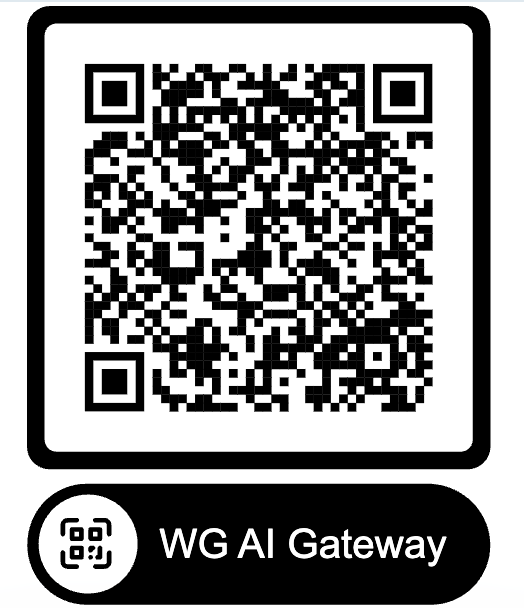
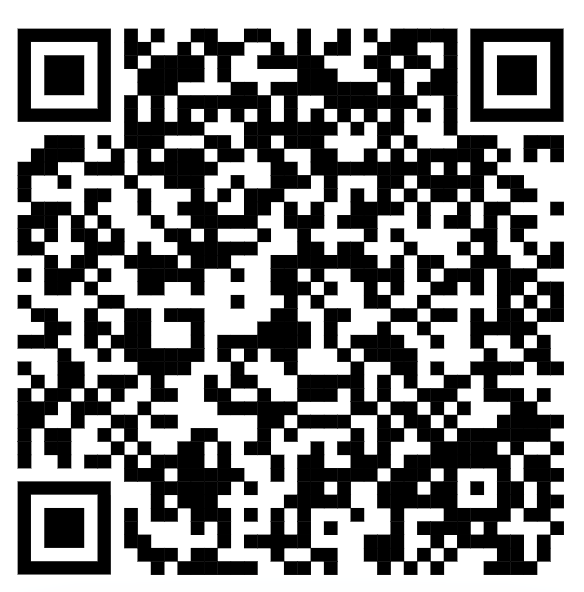
Fix url + cleaner QR code

diff --git a/_site/index.html b/_site/index.html
@@ -27,7 +27,7 @@
 
 <h2 id="april-2026">April 2026</h2>
 
-<p><a href="cloudsummit.ca">Cloud Summit</a></p>
+<p><a href="https://cloudsummit.ca">Cloud Summit</a></p>
 
 <p>A talk about “AI Gateways” in general. Why they exist. What makes them different from other “Gateways”. What are the challenges?</p>
 

diff --git a/README.md b/README.md
@@ -3,7 +3,7 @@ A little fishing line for agents: [llms.txt](https://usize.github.io/llms.txt)
 
 ## April 2026
 
-[Cloud Summit](cloudsummit.ca)
+[Cloud Summit](https://cloudsummit.ca)
 
 A talk about "AI Gateways" in general. Why they exist. What makes them different from other "Gateways". What are the challenges?
 

diff --git a/_site/README.md b/_site/README.md
@@ -3,7 +3,7 @@ A little fishing line for agents: [llms.txt](https://usize.github.io/llms.txt)
 
 ## April 2026
 
-[Cloud Summit](cloudsummit.ca)
+[Cloud Summit](https://cloudsummit.ca)
 
 A talk about "AI Gateways" in general. Why they exist. What makes them different from other "Gateways". What are the challenges?
 
